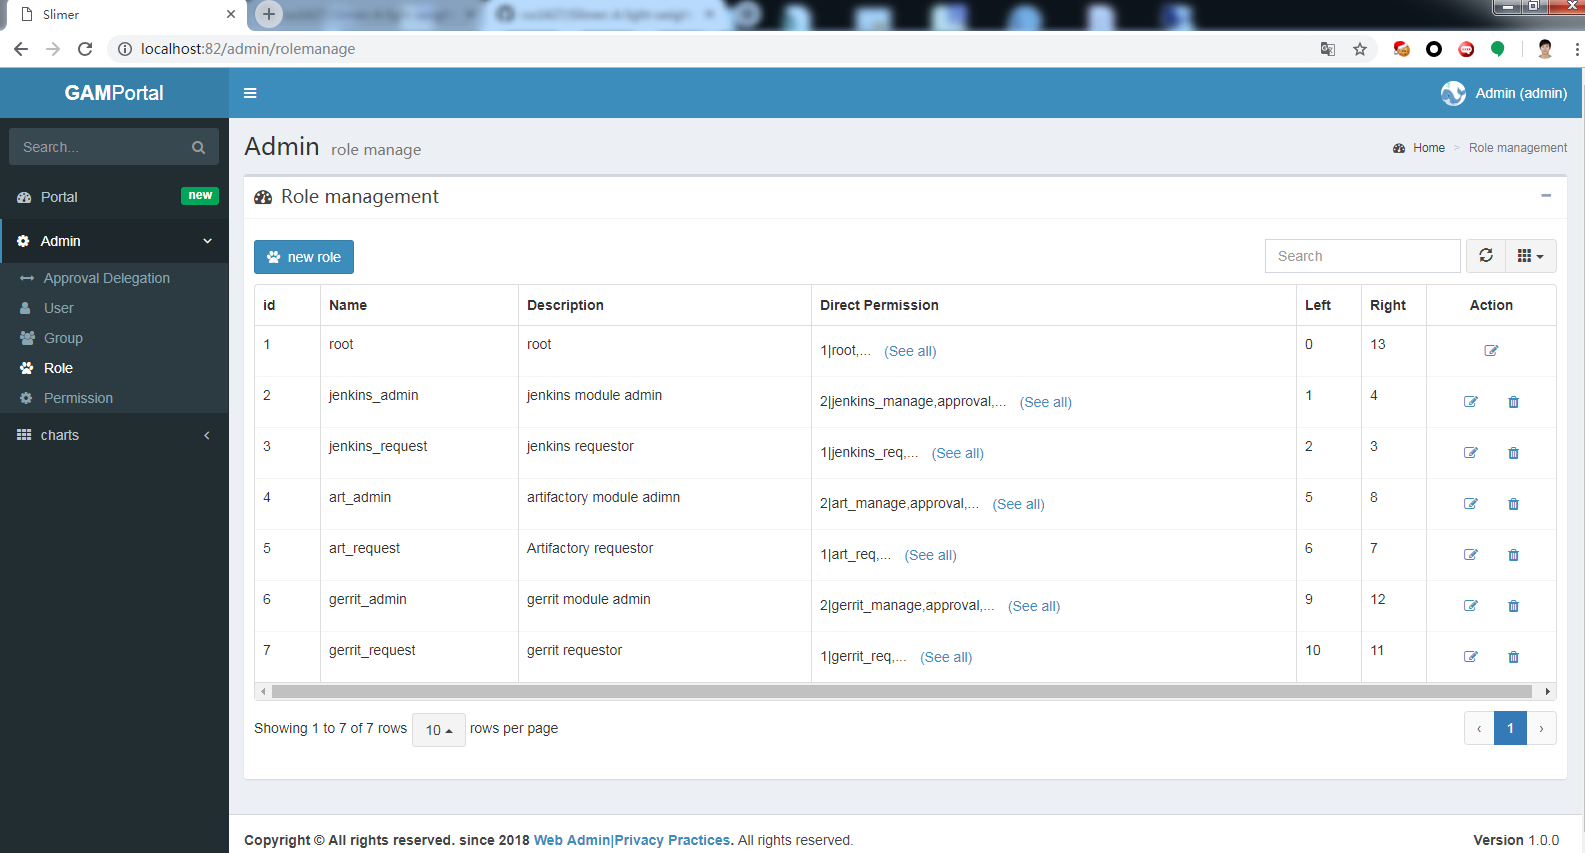
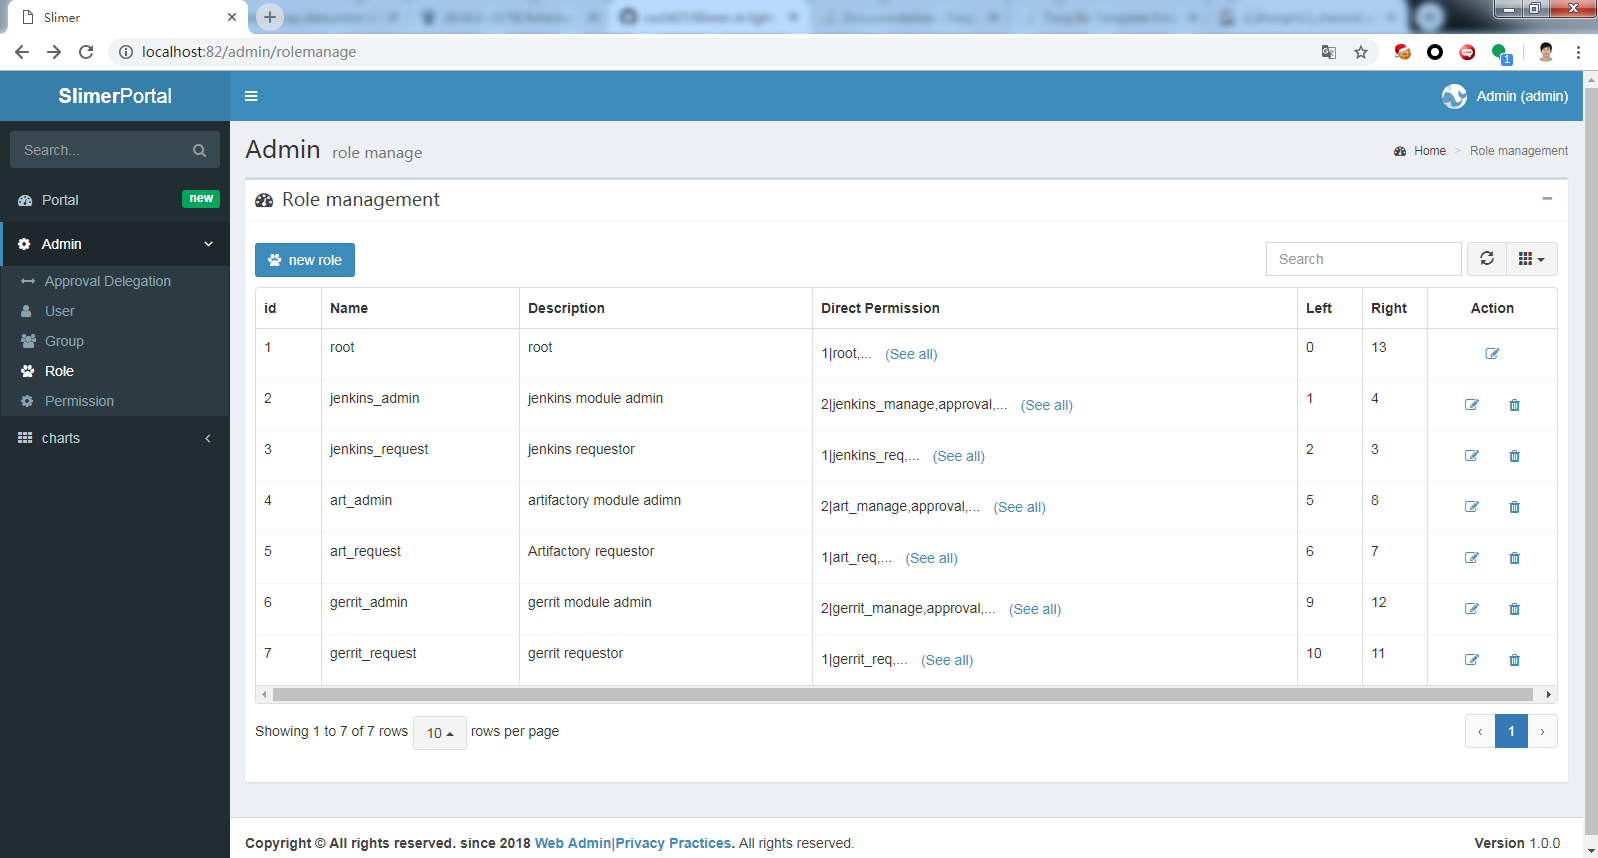
Add project_name config item and use it in the adminLTE template and index page.

diff --git a/app/Configs/suit.php b/app/Configs/suit.php
@@ -48,5 +48,6 @@ return [
     ],
     
     'version_key' => 'VERSION',
-    'commitid_key' => 'COMMITID'
+    'commitid_key' => 'COMMITID',
+    'project_name' => 'Slimer' //----default is Slimer
 ];
